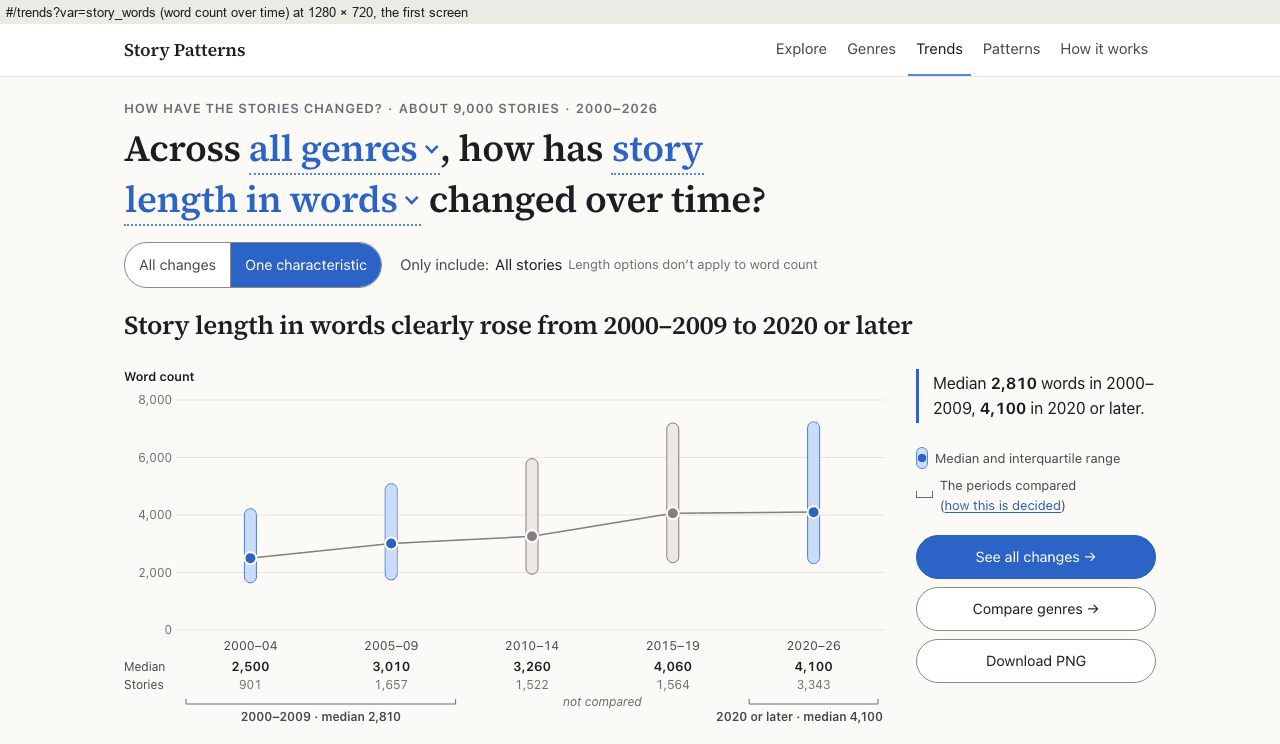
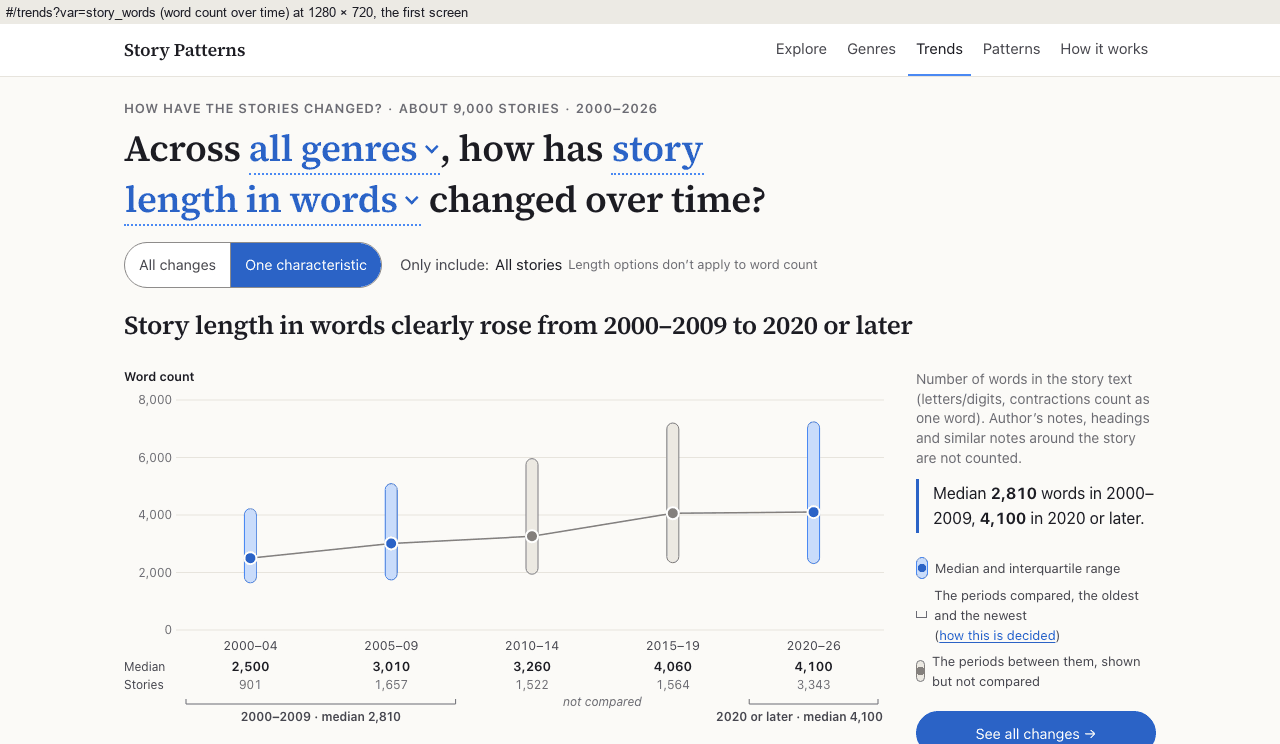
Stage 2 trends review: the follow-up's write-up and the redone after screenshots
- docs/stage2/TRENDS_REVIEW.md section 9: what tripped the stand-ins and what changed (04fb6a6), the three rounds of
  fresh eyes side by side, the measurements against a1cfa0b, judgment calls, what was not done on purpose (O1's
  "interquartile range", "typical story", data, "One genre") and what is still open (definitions for the 9
  characteristics whose meta description only repeats the label: a meta.json change). Sections 3, 6 and 8 point to it.
- docs/stage2/trends-review/a01-a16: retaken on the final build.
- site/README.md: the Trends page's takeaway, head and axis title as they read now, what View 1 says it measures, the
  key; the visits' bytes.

Final run: npm test 508 tests in 36 files, npm run build, pytest 218 tests.

Changed region(s): [[0.7188, 0.4946, 0.9062, 0.9274], [0.7188, 0.9583, 0.9062, 1.0]]

diff --git a/docs/stage2/TRENDS_REVIEW.md b/docs/stage2/TRENDS_REVIEW.md
@@ -74,7 +74,8 @@ The final checks found and fixed defects in this round's own work, the main ones
 
 ## 3. Before and after
 
-Phones at full size; 1440 px at half size. Palette-compressed to 64 colors. The "before" panels are `e634304`.
+Phones at full size; 1440 px at half size. Palette-compressed to 64 colors. The "before" panels are `e634304`; the
+"after" panels are the final build, `04fb6a6`, with your follow-up (section 9).
 
 | View | After | Before |
 |---|---|---|
@@ -189,6 +190,8 @@ past tense ("rose", "fell", "changed", "No clear change in …"). Every `yes_sub
 
 ## 6. Fresh eyes
 
+*Since October 12, two more rounds on the follow-up: section 9.*
+
 Six stand-ins, three on a phone and three on a desktop. Each was shown only screen-sized captures of the after build
 by file path, with the earlier rounds' situation line ("a friend sent you this link…"; "you have no background in
 statistics") and the prompt's five questions. Their answers, verbatim, are in `Claude outputs/design-review-2-tools/
@@ -287,19 +290,16 @@ trends-review/fresh-eyes.md`.
 - **A real phone, Safari and screen readers.** Everything was checked in headless Chromium with emulated touch and
   forced colors. Safari couldn't be driven here: `safaridriver` needs Safari's remote automation turned on, a setting
   for you, and Playwright's WebKit isn't installed. VoiceOver, TalkBack and NVDA are untested.
-- **Fresh eyes, all in approved copy, so your call:**
-  - "not clear within any length band" is never explained (6/6).
-  - Gray means "no clear change" in View 2 and "not compared" in View 1 (6/6, though the label resolves it).
-  - "held fixed" is unclear (6/6).
-  - "· borderline" on a row whose dot sits at 39 reads as "near the zone's edge" (6/6). A short explanation where the
-    word first appears would answer the last two.
-  - "is the higher one" (5/6), average or median (4/6), and "Show all 21" under a heading of 26 (2/6).
+- ~~**Fresh eyes, all in approved copy, so your call:** "not clear within any length band" never explained (6/6); gray
+  meaning "no clear change" in View 2 and "not compared" in View 1 (6/6); "held fixed" (6/6); "· borderline" read as
+  "near the zone's edge" (6/6); "is the higher one" (5/6), average or median (4/6), "Show all 21" under 26 (2/6).~~
+  Addressed on October 12 at your word, and checked by two more rounds: section 9.
 - **Percents on the build-ups.** The rule gives a percent to every number with a plain unit. "Build-up of …" (last fifth
   minus first fifth, per 1,000 words) qualifies, and near-zero medians make it huge: 15 of the 4,015 rows with a
   percent reach 1,000% or more, up to "0.0034 → 5.1 (+149,028%)" (How To). Leaving signed differences without a percent would change what is
   shown, so I left it for you.
-- **The borderline line's "it"** with a plural noun ("Touch words: a borderline change…" then "By the site's rule it
-  clearly fell…"). This is the approved copy; "they" would follow has/have.
+- ~~**The borderline line's "it"** with a plural noun ("… it clearly fell …").~~ The line names the noun now ("By the
+  site’s rule touch words clearly fell, …"): section 9.
 - **Verdana only, all at 320 px or in the gap:**
   - 3 of 7,170 View 1 charts: two pairs of period values touch and one ends 2 px past the chart. Verdana's "%" is
     1.27 em ("10.0%" is 49 px against 39 estimated). The same 3 were there before.
@@ -311,3 +311,116 @@ trends-review/fresh-eyes.md`.
   outline. The table's asterisk says the same.
 - **The view switch from a scrolled page** opens the other view at the top. The Genres page's switch does the same,
   and so did this page before. Keeping the place would be a change to both pages.
+
+## 9. Your follow-up: what tripped the stand-ins (October 12)
+
+You asked for the stumbles in section 6 to be addressed by my judgment. Built in `04fb6a6`, checked by two more rounds of
+six stand-ins (the same brief, the same five questions, new screen-sized captures each time), then measured again. This
+write-up and the redone after screenshots are the commit after it. Not pushed.
+
+### 9.1 What changed
+
+| Stumble (round 1) | What changed | Where |
+|---|---|---|
+| "not clear within any length band" never explained (6/6) | The band line names the bands: "6 of these changes are not clear within any length band (stories under 2,000 words, 2,000–5,000 words or 5,000 words or more)." It comes last in the takeaway, and its place is held (hidden) until the Length options' files arrive, so nothing moves when it comes | View 2's takeaway |
+| "held fixed" (6/6); "not once" read as "never" | The fixed-mix check in the readers' own words, "if the mix of genres had been the same in both periods": "By the site’s rule touch words clearly fell, but not if the mix of genres had been the same in both periods (how this is decided)." The noun, not "it", so a plural one reads right | View 1's borderline line |
+| "· borderline" read as "near the zone's edge" (6/6) | What it means, once, in the takeaway: "2 of these changes are borderline: clear by the site’s rule, but not if the mix of genres had been the same in both periods." With 5,000 words or more, whose 4 are in the topics only: "4 characteristics, in the topics below, are borderline: not clear by the site’s rule, but clear if …" | View 2's takeaway |
+| Gray means "no clear change" in View 2 (6/6); why the middle isn't compared (6/6) | The key: "The periods compared, the oldest and the newest (how this is decided)" and a gray entry, "The periods between them, shown but not compared" (numbers, yes/no and mostly zero; named groups and bands keep their colors) | View 1's key |
+| "is the higher one" took two reads (5/6) | "How often a story from 2020 or later comes out higher than a story from 2000–2009, out of 100"; the note adds "(50 is a tie)" | View 2's axis title and note |
+| Average or median? (4/6) | The values' head in two lines: "Median story or share" over "2000–09 → 2020+" (the image too) | View 2's head row |
+| "description length": of what? (3/6) | What the characteristic measures, under the heading (the rail's first line on a desktop), from meta's description as Explore shows it; none where it only repeats the label and the unit (9 of 180, such as "Touch words per 1,000 words."). The note says where to find it: "Tap a row for what it measures and its chart over time." | View 1; View 2's note |
+| "Show all 21" read against the heading's 26 (2/6, phones) | "Show all 21 that rose", "Show all 5 that fell" | View 2's lists |
+| (all of the above point to "how this is decided") | How it works says why only the two windows are compared (the oldest and the newest, each pooling several years, so that no thin year can swing the verdict), what borderline means in the same words, and what the length bands are | How it works, "Changes over time" |
+
+### 9.2 Fresh eyes, three rounds
+
+Round 1 is section 6. Round 2 tested the first pass ("if every genre had the same share of stories in both periods",
+"scores higher than", "Median or share", the tautological definitions shown). Round 3 tested the final words, except
+"comes out higher than", which replaced "scores higher than" after it. Answers verbatim in `Claude outputs/
+design-review-2-tools/trends-review/fresh-eyes.md`.
+
+| Stumble | Round 1 | Round 2 | Round 3 |
+|---|---|---|---|
+| Each question's point came across | 6/6 each | 6/6 each | 6/6 each |
+| "length band" not understood | 6/6 | 0/6 | 1/6 |
+| "Show all 21" against 26 | 2/6 | 0/6 | 0/6 |
+| The genre-mix check unclear, or misread as "all genres the same size" | 6/6 unclear | 3/6 misread | **0/6** |
+| Average or median? | 4/6 | 6/6 ("Median" over "Average …") | 3/6; 4/6 read "the middle story's average" outright |
+| "is the higher one" / "scores higher" made them pause | 5/6 | 2/6 | 3/6 (one: "scores" sounds like ratings, hence "comes out higher") |
+| Gray means two things | 6/6, the label resolved it | 6/6, the key resolved it | 6/6, the key resolved it |
+| Why only the two ends: not on the screen | 6/6 | 6/6 | 6/6 (all point to "how this is decided", which now says) |
+| "borderline" could read as "only just past 40" | 6/6 | 6/6 noted, all took the page's meaning | 5/6 noted, all took the page's meaning |
+| "description length": of what? | 3/6 | 1/6 | 3/6 (all desktop; the definition is a tap away) |
+| What counts as a "touch word"? | 0/6 | 5/6 | 6/6 |
+| "interquartile range" (O1 keeps it) | 3/6 | 2/6 | 5/6 |
+
+- **What it fixed:** the length band, "Show all 21", the genre-mix check (no one misreads it now), and "borderline" (every
+  reader takes the page's meaning, though most still note that its two rows sit at 39).
+- **What it made visible:** once the continuation has a one-line definition, touch words' lack of one gets noticed (0/6,
+  then 5/6 and 6/6). Meta's description for 9 characteristics only repeats the label; a real one (the word list's gist,
+  say) would answer it, and that is a `meta.json` change, so it's yours (9.6).
+- **Unchanged:** the gray (every reader notes it; the key settles it); the reason for comparing only the two ends (now in
+  How it works, which no stand-in could open).
+
+### 9.3 Measurements, the final build against `a1cfa0b`
+
+| Measure | `a1cfa0b` | Final (`04fb6a6`) |
+|---|---|---|
+| Glyph boxes, View 2 (31 genres × 4 options × 320–1440 px, every topic open): site font / Verdana | 0 / 0 | **0 / 0** (with the two-line head; it keeps 28 px from the plot, 10 in Verdana) |
+| Glyph boxes, View 1 (7,170 charts): site font / Verdana | 0 / 3 | 0 / 3 (the same) |
+| Breaks (980 states a font) | 0 / 3 | 0 / 3 (the same) |
+| axe; label in name | 63 runs, none; 12 pages, none | the same |
+| Forced colors, light and dark | every mark draws | and the key's gray entry and the definition line |
+| Fold at 1280 × 720 / 1440 × 900 | 700 / 720 | 700 / 720 (the definition sits in the rail) |
+| A control moving the page | 8 of 144 (the switch) | the same |
+| Layout shift, a View 2 visit (slow 4G), 375 / 1440 px | 0.004 / 0.006 | **0.000 / 0.000** (the band line's place held); worst 0.021 as before |
+| First load | 149.7 KiB, 6 | 149.7 KiB, 6 |
+| A visit to `#/trends`; to View 1; to "One genre"; to How it works | 213.0; 176.0; 208.7 KiB | 213.7; 176.7; 208.8; 141.2 KiB |
+| Chunks (bytes, `gzip -9`): Trends JS, CSS; How it works; `IncludeSelect`; `chartImage`; the main script | 15,083, 3,914; 8,027; 13,078; 7,495; 86,746 | 15,561, 4,045; 8,344; 13,142; 7,539; 86,748 |
+| Page height, 375 / 1440 px: `#/trends` (View 2); View 1, word count | 2,635 / 2,083; 1,207 / 924 | 2,754 / 2,162; 1,339 / 1,036 (the takeaway's two lines; the definition and the key's entries) |
+| PNGs | | View 2's: the new axis title and the two-line head; View 1's key: both new entries ("(how this is decided)" left out); "One genre"'s: pixel-identical |
+
+Tests: 508 (503 before), stable over three runs.
+
+### 9.4 Judgment calls
+
+1. **The readers' words over mine.** "If the mix of genres had been the same in both periods" is how rounds 1 and 2
+   paraphrased the check; my first phrase, "if every genre had the same share of stories", was misread by 3 of 6.
+2. **"Median story or share", not "typical".** An earlier round banned "typical story" from the site (a scan enforces
+   it), and "Median or share" over "Average paragraph length" read as a contradiction to 6 of 6. "Median story" says
+   both levels: the median story's average.
+3. **"Comes out higher", not "scores higher"**, which on a site about ratings read as a rating. This one change wasn't
+   tested by a round.
+4. **The band line last, its place held.** The prompt had it last; it arrives after the first paint, so a hidden copy
+   (with a one-digit count) keeps its height until then. If no change misses every band (none in the data), the copy
+   goes and the page moves once.
+5. **A definition only where it says more than the label.** The 9 that repeat the label and unit are left out, since
+   they read as a definition and give none.
+6. **The definition at the rail's top on a desktop**, not under the heading, so the chart keeps its place on the first
+   screen.
+7. **The key's gray entry only for the forms drawn gray** (numbers, yes/no, mostly zero), as the prompt keeps named
+   groups' and bands' colors.
+8. **"Show all … that rose" on Trends only**, through an opt-in, so "One genre" is unchanged.
+9. **How it works says why the two ends**, from the proposal's reason (5.2), with the bands and the borderline check
+   in the page's own words.
+10. **The gray color stays**, as your design gives it ("as View 2's gray dots"); the key and the label explain it.
+
+### 9.5 Not done, on purpose
+
+- **"interquartile range"** stays (O1), though 5 of 6 in round 3 didn't know it.
+- **"typical story"**, banned by an earlier round's decision.
+- **Data:** no new definitions in `meta.json` (beyond O5).
+- **"One genre"**: unchanged, though it has the same "is the higher one" axis title; the same change would apply there if
+  you want the two comparisons to read alike.
+
+### 9.6 Still open
+
+- **Definitions for the 9** whose description only repeats the label: the five senses' words, physical sensation words,
+  semicolons, colons and commas. A sentence each in the pipeline's wording (`litcorr/stage2/wording.py`, then
+  `site-data`) would let View 1 show them; it changes `meta.json`, so it's your call.
+- **"description length"**: 3 of 6 desktop readers guess it's the blurb. Its definition ("Number of characters in the
+  author’s short description.") is one tap away; a clearer label would also be a `meta.json` change.
+- **"interquartile range"** (O1) and **the reason for comparing only the two ends**, which now waits behind "how this is
+  decided": both are noticed by most readers.
+- Section 8's other items stand: Safari and screen readers, the build-up percents, the Verdana-only leftovers, the
+  hatching, and the switch.

diff --git a/site/README.md b/site/README.md
@@ -35,12 +35,19 @@ rank-biserial correlation of at least 0.2 against all genres (for named groups, 
 The **Trends** page shows how the stories themselves changed over time. It opens on **All changes**: "What has
 changed in stories across [all genres]?" ("… in [Romance]?") says how many of the characteristics compared clearly
 changed from 2000–2009 to 2020 or later ("26 of 180 characteristics clearly changed …") and how many stories each
-window has. A takeaway follows: for All genres with All stories, how word count changed, the ▼ Fell / ▲ Rose / ≠
-lines, and how many of the changes are not clear within any length band (from the Length options' files, read after
-the first paint). Then the lists, the largest change first, in "One genre"'s rows: each reads the two windows' values
-first ("51.6 → 38.8 (−25%)"), then a dot on a scale zoomed to the view (how often a story from 2020 or later is the
-higher one against a story from 2000–2009, out of 100), with "· borderline" or "· not clear within any length band"
-where they apply. "Download PNG" saves the lists, every characteristic by topic follows, and a row opens its chart over
+window has. A takeaway follows:
+
+- how word count changed, and the ▼ Fell / ▲ Rose / ≠ lines;
+- for All genres, what "borderline" means: clear by the site's rule, but not if the mix of genres had been the same in
+  both periods;
+- last, for All genres with All stories, how many of the changes are not clear within any length band, the bands
+  named. This comes from the Length options' files, read after the first paint, and the line's place is held until
+  then.
+
+Then the lists, the largest change first, in "One genre"'s rows. Each reads the two windows' values first ("51.6 →
+38.8 (−25%)", under "Median story or share"), then a dot on a scale zoomed to the view (how often a story from 2020 or
+later comes out higher than a story from 2000–2009, out of 100), with "· borderline" or "· not clear within any length
+band" where they apply. "Download PNG" saves the lists, every characteristic by topic follows, and a row opens its chart over
 time. A genre whose windows have too few stories says so, with its stories per period. The switch "All changes · One
 characteristic" leads to one characteristic over five periods of publication (2000–04 to 2020 and later): "Across
 [all genres], how has [story length in words] changed over time?" ("how have" for a plural noun; "In [Romance], …").
@@ -53,9 +60,10 @@ It is drawn in one of four forms on one time axis:
 
 Under the plot, aligned with the columns: the periods, their medians or shares, their stories, and brackets under the
 two windows compared, each with its window's number ("2000–2009 · median 2,810"); the periods between them are gray and
-"not compared". The heading says whether the characteristic clearly rose, fell, moved later or earlier, or changed
-between the windows, by the Genres page's rule. For All genres it says "a borderline change" when holding each genre's
-share of stories fixed gives the other answer. A line names a clear dip or rise in between. On a desktop the takeaway,
+"not compared", as the key says. The heading says whether the characteristic clearly rose, fell, moved later or
+earlier, or changed between the windows, by the Genres page's rule. For All genres it says "a borderline change" when
+the check with the mix of genres held the same in both periods gives the other answer. Under the heading the page says
+what the characteristic measures, from `meta.json`'s description. A line names a clear dip or rise in between. On a desktop the takeaway,
 the key and the actions ("See all changes →", "Compare genres →", "Download PNG") sit in a rail beside the chart. Its
 picker lists the characteristics that clearly changed first, and "Only include" leaves out the options that don't
 apply (the Length options with word count). Publication year, month and weekday, story age, the number of tags and the
@@ -118,9 +126,9 @@ Trends page one of at most 13 KB.
 The **first load** is the HTML, the main script, the CSS, the heading font, `meta.json` and the first chart file:
 **149.7 KiB of gzip response bodies in 6 requests** (October 12, 2026, after the Trends review; 149.5 before it,
 148.5 before the Trends page). The Genres and Trends pages' own code, styles and files load only when they are opened.
-A visit that starts on the Genres page is 208.7 KiB in 9 requests (204.4 in 8 before the Trends page: the code the two
-pages share is now a chunk of its own). One that starts on the Trends page is 213.0 KiB in 12: all changes, with the
-three Length options' files for its band line fetched after the first paint (176.0 in 9 for one characteristic).
+A visit that starts on the Genres page is 208.8 KiB in 9 requests (204.4 in 8 before the Trends page: the code the two
+pages share is now a chunk of its own). One that starts on the Trends page is 213.7 KiB in 12: all changes, with the
+three Length options' files for its band line fetched after the first paint (176.7 in 9 for one characteristic).
 Layout shift stays under 0.03. The budget is **155 KiB of
 gzip response bodies** for that set, measured on the built site served with gzip (the design review's `firstload.mjs`
 with `serve.mjs`; response headers are not counted).
@@ -239,8 +247,9 @@ src/
                           characteristic" and "Only include"; keeps the shown file, and the last answer it can draw,
                           until the next one has loaded; the live region; the tab's title; focus to the answer's
                           heading after a button that changes it
-    TrendAnswer.jsx       (lazy) one characteristic over time: the heading, the takeaway (the windows' numbers, the
-                          path line, the borderline line), the key, the chart for its form and the actions ("See all
+    TrendAnswer.jsx       (lazy) one characteristic over time: the heading, what the characteristic measures, the
+                          takeaway (the windows' numbers, the path line, the borderline line), the key (the periods
+                          compared and the gray ones between), the chart for its form and the actions ("See all
                           changes →", "Compare genres →", "Download PNG"), in a rail beside the chart from a 960 px
                           answer; the too-few state
     TrendChart.jsx        (lazy) range columns and dots on a line (numbers, yes/no) and the split chart (mostly zero),
@@ -249,9 +258,10 @@ src/
                           chart on phones; the glide to another genre or option
     TrendMix.jsx          (lazy) 100% columns for named groups and ordered bands
     TrendChanges.jsx      (lazy) all changes from 2000–2009 to 2020 or later, the page's default: the heading with its
-                          denominator, the sample line, the takeaway (the length line, ▼ ▲ ≠, the length-band line from
-                          the Length options' files) and the too-few state (stories per period), with "What changed"'s
-                          words, values and tags for ComparisonProfile
+                          denominator, the sample line, the takeaway (the length line, ▼ ▲ ≠, what "borderline" means,
+                          the length-band line from the Length options' files, its place held until they arrive) and
+                          the too-few state (stories per period), with "What changed"'s words, values and tags for
+                          ComparisonProfile
     ChartNotes.jsx        the totals box (story age) with its switch, and the three explanations (disclosures at every
                           width)
     DownloadPng.jsx       "Download PNG": the button, its lazy code and its failure message (Explore, both views of the
